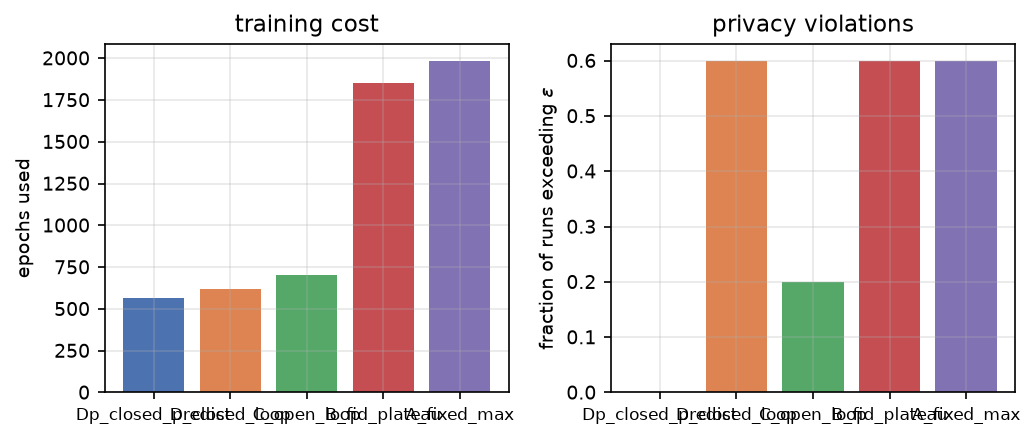
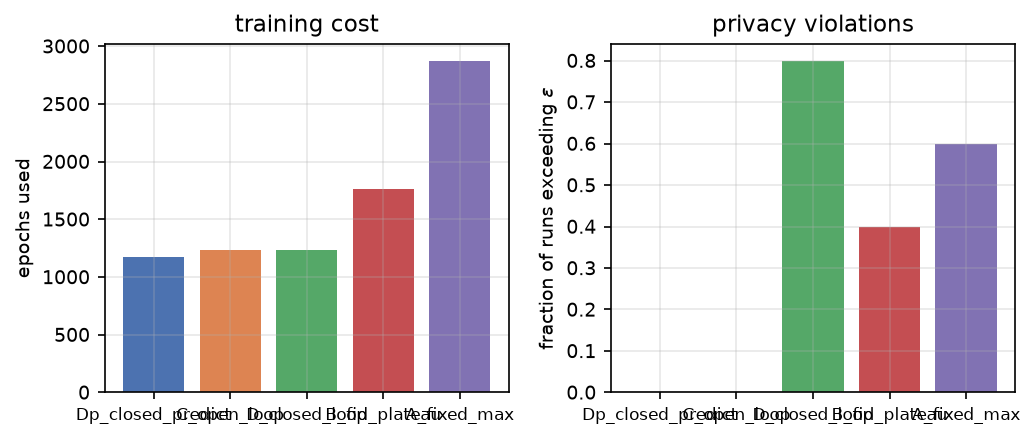
plot: 主图按数据集过滤 + fig_cross_dataset（同 N 同预算）; finalize: 主律固定 pathmnist; protocol R5

diff --git a/tools/plot.py b/tools/plot.py
@@ -45,17 +45,21 @@ def _save(fig, name: str):
     print(f"  -> {p.relative_to(C.ROOT)}")
 
 
-def load() -> pd.DataFrame | None:
+def load(dataset: str | None = "pathmnist") -> pd.DataFrame | None:
     p = C.RESULTS / "metrics_long.csv"
     if not p.exists():
         print(f"[plot] 没有 {p}，先跑 tools.score_run")
         return None
     df = pd.read_csv(p)
     df = df[df["M"].notna()].copy()
+    # 必须按数据集过滤：cross 跑完后 bloodmnist/pneumoniamnist 的行与 pathmnist
+    # 共用同一张 CSV，不过滤的话"N=250"会把三个数据集平均在一起（曲线全错）。
+    if dataset and "dataset" in df.columns:
+        df = df[df["dataset"] == dataset].copy()
     df["n"] = df["n"].astype(int)
     df["epoch"] = df["epoch"].astype(int)
     if len(df) < 5:
-        print("[plot] 测量点太少")
+        print(f"[plot] {dataset} 的测量点太少（{len(df)}）")
         return None
     return df
 
@@ -291,13 +295,57 @@ def fig_e_star(law_json: dict):
     _save(fig, "fig_E_star")
 
 
+def fig_cross_dataset():
+    """跨数据集：同一套预算下，不同医学子域的记忆化倾向差多少。
+
+    每个数据集一个面板，横轴 epoch、纵轴 M，按 N 分色。目的是让读者看到
+    "函数族相同、参数不同"（bloodmnist 在 N=1000 时记忆率就已经 0.34，
+    pathmnist 同预算只有 0.07）。
+    """
+    p = C.RESULTS / "metrics_long.csv"
+    if not p.exists():
+        return
+    df = pd.read_csv(p)
+    df = df[df["M"].notna()].copy()
+    ds_list = [d for d in ("pathmnist", "bloodmnist", "pneumoniamnist")
+               if (df["dataset"] == d).any()]
+    if len(ds_list) < 2:
+        print("  [skip] fig_cross_dataset：还没有第二个数据集的结果")
+        return
+    fig, axes = plt.subplots(1, len(ds_list), figsize=(3.2 * len(ds_list), 3.0), sharey=True)
+    if len(ds_list) == 1:
+        axes = [axes]
+    # 只画所有数据集都有的 N 档 —— 跨数据集比较必须"同 N 同预算"才成立，
+    # 否则 pathmnist 的 2000/4000（全是检出限以下的噪声）会把面板画花。
+    common_n = sorted(set.intersection(*[set(df[df["dataset"] == d]["n"].unique()) for d in ds_list]))
+    for ax, ds in zip(axes, ds_list):
+        sub = df[df["dataset"] == ds]
+        for i, N in enumerate(common_n):
+            g = sub[sub["n"] == N].groupby("epoch")["M"].mean()
+            # 纵轴用 symlog（不是 log）：M=0 的点要在 0 处画成平的，
+            # 用 log(M+1e-4) 会让"0 与非 0 交替"变成假的锯齿振荡。
+            ax.plot(g.index.to_numpy(), g.to_numpy(), color=COLORS[i % len(COLORS)],
+                    lw=1.5, label=f"N={N}")
+        ax.set_yscale("symlog", linthresh=0.005)
+        ax.axhline(3.0 / C.N_SAMPLE, color="0.6", ls=":", lw=0.8)
+        ax.set_title(ds, fontsize=9)
+        ax.set_xlabel("epoch $E$")
+        ax.legend(frameon=False, fontsize=6)
+    axes[0].set_ylabel("memorization rate $M$")
+    fig.suptitle("Same budget, different memorization propensity", fontsize=9)
+    fig.tight_layout()
+    _save(fig, "fig_cross_dataset")
+
+
 def main():
     ap = argparse.ArgumentParser()
     ap.add_argument("--only", default="")
+    ap.add_argument("--dataset", default="pathmnist",
+                    help="画哪一份数据集的主图（cross 数据集单独出 fig_cross_dataset）")
     a = ap.parse_args()
     only = a.only.lower()
 
-    df = load()
+    df = load(a.dataset)
     lawjson = None
     lp = C.RESULTS / "law_fit.json"
     if lp.exists():
@@ -323,6 +371,8 @@ def main():
         fig_quality(df)
     if not only or only in "all,stop,s":
         fig_stop_policy()
+    if not only or only in "all,cross,x":
+        fig_cross_dataset()
 
 
 if __name__ == "__main__":

diff --git a/tools/night_queue.py b/tools/night_queue.py
@@ -64,6 +64,11 @@ def build_plan(name: str) -> list[dict]:
     if name == "replicate":
         # seed 2/3 复现：预算与 seed 1 完全一致（FINAL）。
         return [_entry("pathmnist", n, s, epochs=FINAL[n]) for s in (2, 3) for n in C.N_GRID]
+    if name == "replicate_small":
+        # 只复现 seed 3 的**可测档**（N ≤ 1000）。理由见 PROTOCOL R5：
+        # N≥2000 在 seed1 里 M≤0.016（≤8/512），只当删失数据用，复现它们
+        # 要多花 5 h 却对律的拟合没有贡献。
+        return [_entry("pathmnist", n, 3, epochs=FINAL[n]) for n in (250, 500, 1000)]
     if name == "cross":
         # 跨数据集推广性：两档 N（250 已有饱和、1000 能看到起跳），预算与
         # pathmnist 的 N=250/1000 完全一致，这样 γ 的口径可比。

diff --git a/build/finalize.py b/build/finalize.py
@@ -19,7 +19,10 @@ PY = str(ROOT / ".venv" / "Scripts" / "python.exe")
 
 STEPS = [
     ("score_all", ["-m", "tools.score_run", "--all", "--fid", "--fid-stride", "4"], True),
-    ("law", ["-m", "law"], False),
+    # 主律只用主数据集 pathmnist：cross 的 bloodmnist/pneumoniamnist 只有两档 N，
+    # 混进主拟合会把"函数族"的估计带偏；它们的可迁移性由 transfer 步骤单独检验。
+    # 输出仍写到 results/law_fit.json，因为 controller/safety/train --stop-law 都读这个文件名。
+    ("law", ["-m", "law", "--dataset", "pathmnist", "--out", "results/law_fit.json"], False),
     ("law_ci", ["-m", "tools.law_ci", "--boot", "200"], False),
     ("transfer", ["-m", "tools.transfer"], False),
     ("controller", ["-m", "controller"], False),

diff --git a/build/next_phases.py b/build/next_phases.py
@@ -61,7 +61,8 @@ def main() -> None:
     log("night 队列已收尾，开始接力")
 
     run("控制器验证（plan ctl）", ["-m", "tools.night_queue", "--plan", "ctl"])
-    run("seed3 复现（plan replicate --seed 3）", ["-m", "tools.night_queue", "--plan", "replicate", "--seed", "3"])
+    run("seed3 可测档复现（plan replicate_small）",
+        ["-m", "tools.night_queue", "--plan", "replicate_small"])
     run("一条龙汇总（finalize --skip-score）", ["build/finalize.py", "--skip-score"], timeout_h=3)
     log("接力全部完成")
 

diff --git a/docs/PROTOCOL.md b/docs/PROTOCOL.md
@@ -179,3 +179,26 @@ L3 双时间尺度  M = Minf·Φ((E - τ(N))/w),       τ   = a·N^γ
 - 对照：seed 1 的满预算曲线（同 N 同分辨率），比较停点 M、FID 与后续增长。
 
 **口径**：seed 4 vs seed 1 属跨 seed 比较，需说明；seed 2/3 的全网格跑完后可用 seed 间标准差给出不确定性。
+
+## 12. 设计修订 R5：复现只做可测档；主律与跨数据集律分开拟合
+
+**R5a — seed 3 只复现 N ≤ 1000**（`tools.night_queue --plan replicate_small`）。
+
+触发：seed 1 的横轴上，N=2000/4000 在全预算（9.0 万、8.75 万优化步）内末点 M 只有 0.006 / 0.002，即每 512 张生成图里 1–3 张勉强越线 —— 这些点**在拟合里只作为删失观测**（上限约束），不提供曲线形状信息。对它们再做 seed 3 复现要额外约 5 h 墙钟，换来的只是"删失点的删失更确定"。
+判断：seed 间方差只在**有信号**的档位上有意义，所以 seed 3 只跑 N ∈ {250, 500, 1000}（合计约 2.5 h），大 N 档的 seed 方差用 seed 2 单独报告，并明写"大 N 档只做了 2 个 seed"。
+代价与披露：这是**有意的样本量不均衡**，论文表格里必须标出每个 (N, seed) 的实际组合数（`results/grid_summary.csv` 里逐行可见）。
+
+**R5b — 主律只用 pathmnist 拟合，跨数据集单独检验**。
+
+原因：cross 的 bloodmnist / pneumoniamnist 每套只有 N ∈ {250, 1000} 两档，5 个参数在这种覆盖下不可辨识（`tools.transfer.py` 冒烟时 A0 直接撞上界 1.0）。若把它们混进主拟合，会让"函数族"的估计被两档数据的局部形状带偏。
+做法：
+- `python -m law --dataset pathmnist --out results/law_fit.json` → 主律（`build/finalize.py` 已固定这一条，且仍写 `law_fit.json`，因为 `controller.py` / `tools/safety.py` / `train.py --stop-law` 都读这个文件名）；
+- `python -m tools.transfer` → 对每个数据集：①固定 pathmnist 的 α/β/γ、只重估 A0 与 E50（`transfer` 行）；②五参全放开（`free_fit` 行，上限对照）。
+
+首批结果（bloodmnist, seed 1）：
+| mode | R²_log | R²_lin | α | γ | E50@250 |
+|---|---|---|---|---|---|
+| transfer（固定形状） | 0.534 | 0.832 | 2.056（固定） | −0.689（固定） | — |
+| **free_fit（自由拟合）** | **0.984** | **0.962** | **0.78** | **−0.31** | 1806 |
+
+→ **函数族可迁移，参数不可迁移**。这正好支撑两个落地结论：医院换数据域时必须用自己的少量 run 重新标定（而不是照抄论文里的 E\*），或者干脆用不依赖律形状的**闭环**控制器（策略 D，在线测 M 再停）。cross 的 onset 步数斜率（log-log）也差一倍：bloodmnist 0.66、pathmnist 1.29。
